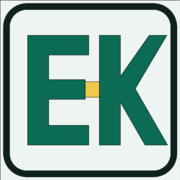
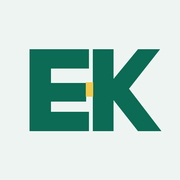
Update

diff --git a/index.html b/index.html
@@ -13,7 +13,10 @@
       property="og:description"
       content="Applied AI, backend systems, platform infrastructure, and product engineering."
     />
-    <meta property="og:image" content="https://ekeric13.github.io/assets/brand/ek-social-preview.png" />
+    <meta property="og:image" content="https://ekeric13.github.io/assets/brand/ek-v1-social-preview.png" />
+    <meta property="og:image:width" content="1200" />
+    <meta property="og:image:height" content="630" />
+    <meta property="og:image:alt" content="Geometric green EK monogram with an amber connector" />
     <meta property="og:url" content="https://ekeric13.github.io/" />
     <meta property="og:type" content="website" />
     <meta name="twitter:card" content="summary_large_image" />
@@ -22,7 +25,8 @@
       name="twitter:description"
       content="Applied AI, backend systems, platform infrastructure, and product engineering."
     />
-    <meta name="twitter:image" content="https://ekeric13.github.io/assets/brand/ek-social-preview.png" />
+    <meta name="twitter:image" content="https://ekeric13.github.io/assets/brand/ek-v1-social-preview.png" />
+    <meta name="twitter:image:alt" content="Geometric green EK monogram with an amber connector" />
     <link rel="icon" href="/assets/brand/ek-v1-favicon.ico" sizes="any" />
     <link rel="icon" type="image/svg+xml" href="/assets/brand/ek-v1-mark.svg" />
     <link rel="icon" type="image/png" href="/assets/brand/ek-v1-icon-32.png" sizes="32x32" />
